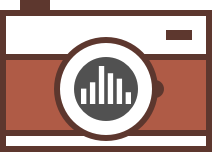
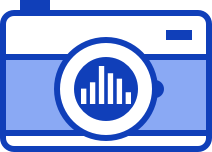
adding state

diff --git a/src/Functions.js b/src/Functions.js
@@ -1,4 +1,4 @@
-import React from 'react'
+import React, { Component } from 'react'
 import styled from 'styled-components'
 import { Columns, Column, Container } from 're-bulma'
 import {
@@ -11,16 +11,6 @@ import {
   Legend
 } from 'recharts'
 
-const data = [
-  { name: 'Page A', customers: 2400 },
-  { name: 'Page B', customers: 2210 },
-  { name: 'Page C', customers: 2290 },
-  { name: 'Page D', customers: 2000 },
-  { name: 'Page E', customers: 2181 },
-  { name: 'Page F', customers: 2500 },
-  { name: 'Page G', customers: 2100 }
-]
-
 const AppContainer = styled.div`
   padding: 2%;
   max-width: 90%;
@@ -31,7 +21,7 @@ const Card = styled.div`
   padding-top:
   width: 90%;
   height: 200px;
-  background: #F8F8F8	;
+  background: #fff;
   margin-top: 2%;
   box-shadow: 0 1px 3px rgba(0, 0, 0, 0.12), 0 1px 2px rgba(0, 0, 0, 0.24);
   transition: all 0.3s cubic-bezier(0.25, 0.8, 0.25, 1);
@@ -46,68 +36,120 @@ const Title = styled.h1`
   letter-spacing: 3px;
   font-size: 1.5rem;
   padding: 2%;
-  color: #3a7bd5;
+  color: #103fb9;
   text-align: center;
 `
 
 const ChartTitle = styled.h1`
-  letter-spacing: 3px;
+  letter-spacing: 2px;
   font-size: 1.5rem;
   padding: 2%;
   text-align: center;
-  background: #3a7bd5;
+  background: #103fb9;
   color: #fff;
 `
 
-const Functions = () => (
-  <div>
-    <AppContainer>
-      <Columns>
-        <Column size="isThreeQuarters">
-          <LineChart
-            width={1000}
-            height={500}
-            data={data}
-            margin={{ top: 5, right: 30, left: 20, bottom: 5 }}
-          >
-            <XAxis dataKey="name" />
-            <YAxis />
-            <CartesianGrid strokeDasharray="3 3" />
-            <Tooltip />
-            <Legend />
-            <Line
-              type="monotone"
-              dataKey="customers"
-              stroke="#8884d8"
-              activeDot={{ r: 8 }}
-            />
-          </LineChart>
-        </Column>
+const Data = styled.div`font-size: 2rem;`
 
-        <Column>
-          <ChartTitle> When do your customers shop? </ChartTitle>
-        </Column>
-      </Columns>
+class Functions extends Component {
+  constructor(props) {
+    super(props)
+    this.state = {
+      data: [
+        { name: 'Page A', customers: 2400 },
+        { name: 'Page B', customers: 2210 },
+        { name: 'Page C', customers: 2290 },
+        { name: 'Page D', customers: 2000 },
+        { name: 'Page E', customers: 2181 },
+        { name: 'Page F', customers: 2500 }
+      ],
+      active: '5'
+    }
+  }
 
-      <Columns>
-        <Column size="isOneThird">
-          <Card>
-            <Title>Active Customers</Title>
-          </Card>
-        </Column>
-        <Column>
-          <Card>
-            <Title>Avg. Time Spent in Store</Title>
-          </Card>
-        </Column>
-        <Column>
-          <Card>
-            <Title>Sales per Customer</Title>
-          </Card>
-        </Column>
-      </Columns>
-    </AppContainer>
-  </div>
-)
+  // getInitialState() {
+  //   return { data: data }
+  // }
+
+  // componentDidMount() {
+  //   setInterval(
+  //     function() {
+  //       var data = this.state.data
+  //       i++
+  //       data = [
+  //         ...data,
+  //         { name: 'Page ' + i, uv: 3490 + i, pv: 4300 + i, amt: 2100 + i }
+  //       ]
+  //       this.setState({ data: data })
+  //     }.bind(this),
+  //     100
+  //   )
+  // }
+
+  render() {
+    return (
+      <div>
+        <AppContainer>
+          <Columns>
+            <Column size="isThreeQuarters">
+              <LineChart
+                width={1000}
+                height={500}
+                data={this.state.data}
+                margin={{ top: 5, right: 30, left: 20, bottom: 5 }}
+              >
+                <XAxis dataKey="name" />
+                <YAxis />
+                <CartesianGrid strokeDasharray="3 3" />
+                <Tooltip />
+                <Legend />
+                <Line
+                  type="monotone"
+                  dataKey="customers"
+                  stroke="#3a7bd5"
+                  activeDot={{ r: 8 }}
+                />
+              </LineChart>
+            </Column>
+
+            <Column>
+              <ChartTitle> When do your customers shop? </ChartTitle>
+
+              <Columns>
+                <Column size="isHalf">10:01 AM</Column>
+
+                <Column>2</Column>
+              </Columns>
+
+              <Columns>
+                <Column size="isHalf">10:03 AM</Column>
+
+                <Column>6</Column>
+              </Columns>
+            </Column>
+          </Columns>
+          <Columns>
+            <Column size="isOneThird">
+              <Card>
+                <Title>Active Customers</Title>
+                <Data>{active}</Data>
+              </Card>
+            </Column>
+            <Column>
+              <Card>
+                <Title>Avg. Time Spent in Store</Title>
+              </Card>
+            </Column>
+            <Column>
+              <Card>
+                <Title>Sales per Customer</Title>
+              </Card>
+            </Column>
+          </Columns>
+        </AppContainer>
+      </div>
+    )
+  }
+}
 
 export default Functions

diff --git a/src/Top.js b/src/Top.js
@@ -13,11 +13,11 @@ const Logo = styled.div`
   text-transform: ${props => props.tt};
   font-weight: ${props => props.fw};
   display: ${props => props.dis};
-  padding-left: 15px;
+  padding-left: 20px;
 `
 
 const LogoImage = styled.img`
-  width: 50px;
+  width: 60px;
   display: inline;
 `
 
@@ -25,10 +25,10 @@ const Container = styled.div`padding: 2%;`
 
 const Top = () => (
   <div>
-    <Background c="#3a7bd5">
+    <Background c="#fff">
       <Container>
         <LogoImage src={logo} />
-        <Logo c="#fff" fw="800" dis="inline" tt="none" fs="3rem">
+        <Logo c="#103FB9" fw="800" dis="inline" tt="none" fs="3rem">
           Camlytics
         </Logo>
       </Container>

diff --git a/src/index.css b/src/index.css
@@ -4,4 +4,5 @@ body {
   margin: 0;
   padding: 0;
   font-family: 'Lato', sans-serif;
+  background: #f0f4fe;
 }
